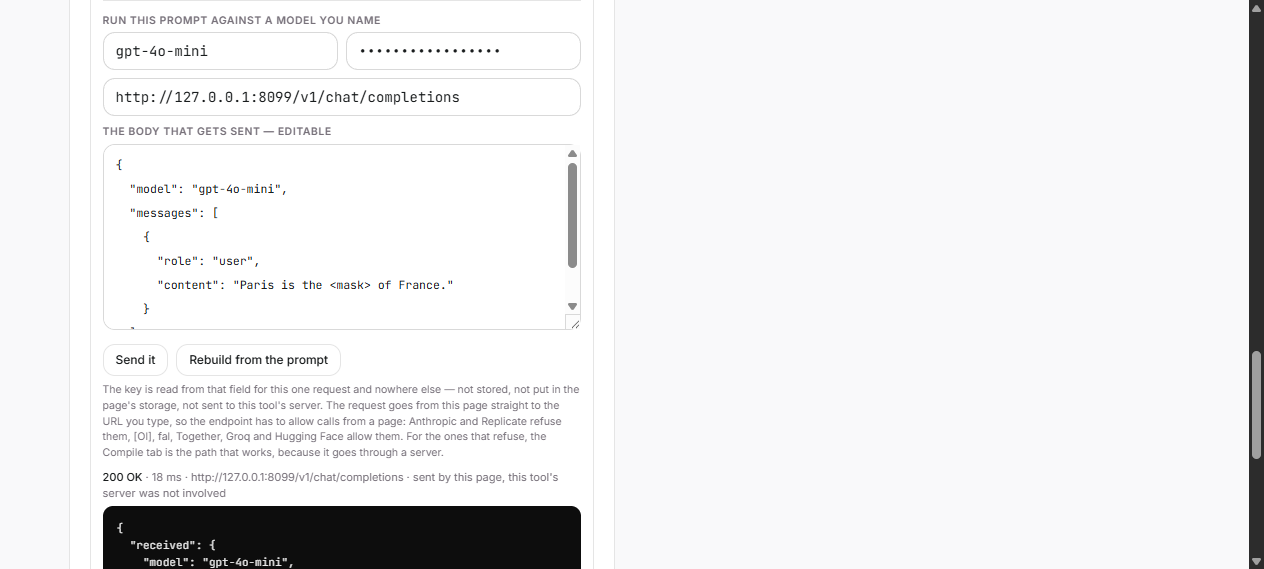
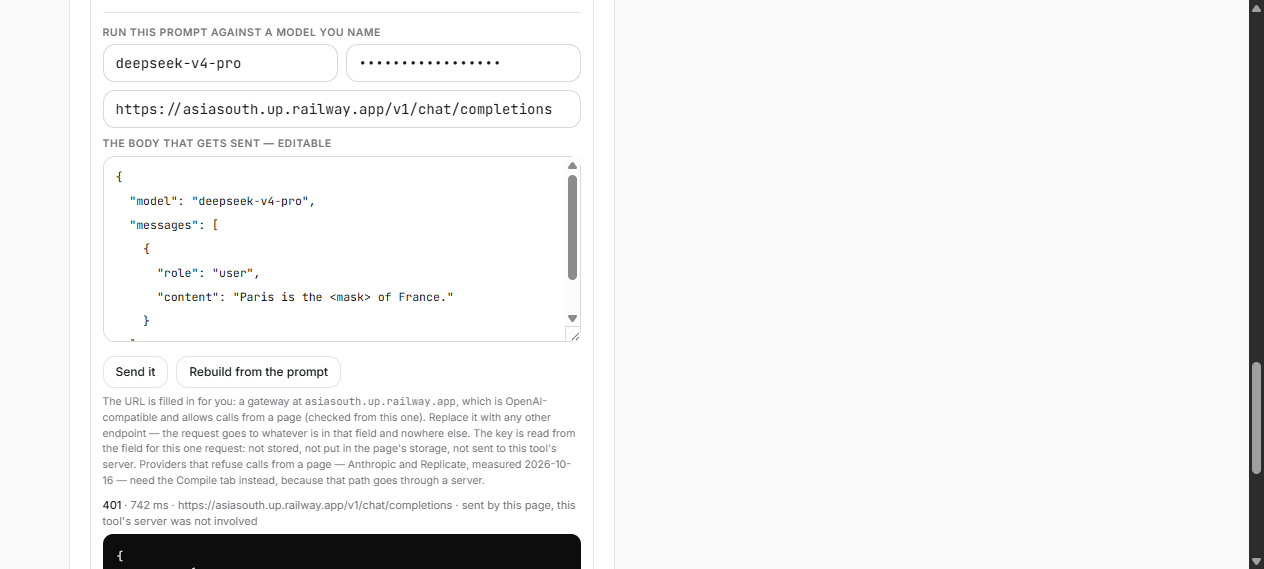
presets: the endpoint field ships filled in
Hardcoded on request: https://asiasouth.up.railway.app/v1/chat/completions is now the
value in the URL field rather than an empty box with an OpenAI placeholder.

Checked against the gateway before hardcoding it, because a URL in that field is only
useful if a browser can actually reach it:

- It is an OpenAI-compatible gateway (x-new-api-version and x-oneapi-request-id; /v1/models
  answers 401 "no token provided"), not a site -- GET / and GET /api/health are 404s.
- It permits calls from a page: from this page, GET /v1/models came back 401 and the
  OPTIONS preflight came back 204, i.e. HTTP statuses rather than a fetch failure. So no
  server hop is needed and the key still never touches this tool.
- A real send on a fresh load reached it in 742 ms: 401 from the gateway for the missing
  key, at the URL in the field.

The whole path is in the field because that is what gets posted to -- a bare base URL
would send the request to / and the gateway answers 404 for the path.

Also fixed while here: the note above the box read "[OI]" (a corrupted "OpenAI") and
still framed the field as "the URL you type". It now names the gateway, says the URL is
prefilled, and that it can be replaced. Screenshot refreshed to match.

tests/test_ui.py asserts the prefill is the complete URL and that the default is named on
screen; both guards verified to fail when the rule is broken. 247 tests, 97/97 sanity.

diff --git a/index.html b/index.html
@@ -218,7 +218,7 @@
               <input id="rName" class="w-full rounded-card border-black/15 text-sm mono" placeholder="gpt-4o-mini" autocomplete="off" spellcheck="false">
               <input id="rKey" type="password" class="w-full rounded-card border-black/15 text-sm mono" placeholder="API key" autocomplete="off" spellcheck="false">
             </div>
-            <input id="rUrl" class="w-full rounded-card border-black/15 text-sm mono mb-2" placeholder="https://api.openai.com/v1/chat/completions" autocomplete="off" spellcheck="false">
+            <input id="rUrl" class="w-full rounded-card border-black/15 text-sm mono mb-2" value="https://asiasouth.up.railway.app/v1/chat/completions" placeholder="https://api.openai.com/v1/chat/completions" autocomplete="off" spellcheck="false">
 
             <label class="block text-[10.5px] font-semibold uppercase tracking-wider text-[#77717A] mb-1">The body that gets sent — editable</label>
             <textarea id="rBody" rows="7" class="w-full rounded-card border-black/15 text-[11.5px] mono" spellcheck="false"></textarea>
@@ -229,11 +229,13 @@
             </div>
 
             <div class="text-[10.5px] text-[#77717A] mt-1.5">
-              The key is read from that field for this one request and nowhere else — not stored, not put in
-              the page's storage, not sent to this tool's server. The request goes from this page straight to
-              the URL you type, so the endpoint has to allow calls from a page: Anthropic and Replicate refuse
-              them, [OI], fal, Together, Groq and Hugging Face allow them. For the ones that refuse, the
-              Compile tab is the path that works, because it goes through a server.
+              The URL is filled in for you: a gateway at
+              <span class="mono">asiasouth.up.railway.app</span>, which is OpenAI-compatible and allows
+              calls from a page (checked from this one). Replace it with any other endpoint — the request
+              goes to whatever is in that field and nowhere else. The key is read from the field for this
+              one request: not stored, not put in the page's storage, not sent to this tool's server.
+              Providers that refuse calls from a page — Anthropic and Replicate, measured 2026-10-16 —
+              need the Compile tab instead, because that path goes through a server.
             </div>
             <div id="rReply" class="mt-2"></div>
           </div>

diff --git a/tests/test_ui.py b/tests/test_ui.py
@@ -111,7 +111,32 @@ def test_the_box_says_where_the_request_goes():
     """
     html = _page()
     assert "not stored" in html
-    assert "straight to" in html
+    assert "goes to whatever is in that field" in html
+
+
+def test_the_endpoint_field_ships_prefilled_and_complete():
+    """The shipped default is a working endpoint, not an empty box.
+
+    Hardcoded on request, to a gateway that is OpenAI-compatible and allows calls from
+    a page. Both were checked against the live gateway before it was hardcoded: a
+    request from this page reached it and came back 401 for the missing key, rather
+    than being blocked by the browser or 404ing on the path.
+
+    The URL is asserted whole, including `/v1/chat/completions`, because the box posts
+    to exactly what is in the field: a base URL alone would send the request to
+    `/` and the gateway would answer 404 for the path.
+    """
+    tag = _tag("rUrl")
+    assert 'value="https://asiasouth.up.railway.app/v1/chat/completions"' in tag, tag
+    # the placeholder stays a generic example, distinct from the shipped value
+    assert 'placeholder="https://api.openai.com/v1/chat/completions"' in tag, tag
+
+
+def test_the_default_endpoint_is_named_on_screen():
+    """The default URL is visible next to the box, so it is not a hidden setting."""
+    html = _page()
+    assert "asiasouth.up.railway.app" in html
+    assert "filled in for you" in html
 
 
 def test_a_body_that_is_not_json_is_refused_before_anything_is_sent():

diff --git a/README.md b/README.md
@@ -109,8 +109,12 @@ it reports the failure and the local collections still work.
 A preset here is an **input text**, not a parameter set: Hugging Face's defaults carry
 nothing but the example and its source, so there is nothing to map onto a model's
 request body. That left the presets inert — they filled a box and stopped. So the same
-panel takes a **model name, an endpoint URL and an API key**, and sends the prompt to
-the endpoint you named.
+panel takes a **model name, an API key and an endpoint URL**, and sends the prompt to
+the endpoint you named. The URL ships filled in with
+`https://asiasouth.up.railway.app/v1/chat/completions` — an OpenAI-compatible gateway
+that allows calls from a page — so the box works on arrival, and it is editable for
+anything else. The whole URL is in the field because that is what gets posted to: a
+bare base would send the request to `/` and the gateway would answer 404 for the path.
 
 The request is made **by the page, to that URL, and nowhere else**:
 
